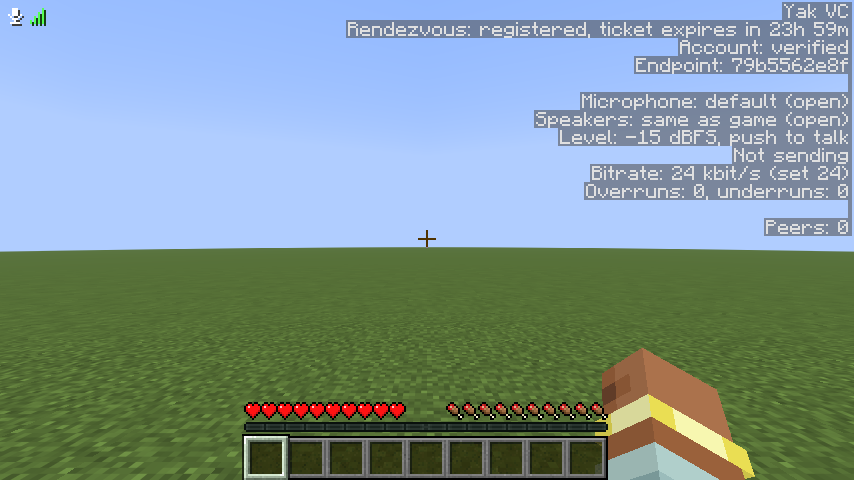
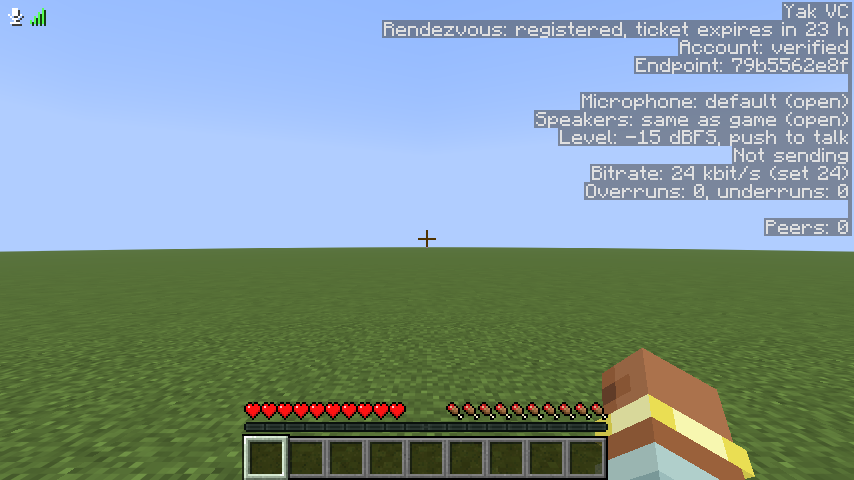
Show the ticket's time left in hours until the last hour
The debug overlay showed hours and minutes, so the line, and with it the
user guide's screenshot, changed with every minute the gametest took to
reach it. Whole hours are precise enough for a day-long ticket; under an
hour it counts minutes, when renewal matters.

Part of #118.

Changed region(s): [[0.4871, 0.0312, 1.0, 0.0938], [0.3958, 0.0312, 0.4567, 0.0938]]

diff --git a/mod/src/main/java/io/github/desocketed/yakvc/ui/DebugOverlay.java b/mod/src/main/java/io/github/desocketed/yakvc/ui/DebugOverlay.java
@@ -91,13 +91,20 @@ public final class DebugOverlay implements HudElement {
 		if (state == null) return "not started";
 		long value = feeder.rendezvousValue();
 		return switch (state) {
-			case REGISTERED -> {
-				long minutes = Math.max(0, value - System.currentTimeMillis() / 1000) / 60;
-				yield String.format("registered, ticket expires in %dh %02dm", minutes / 60, minutes % 60);
-			}
+			case REGISTERED -> "registered, ticket expires in " + timeLeft(value, System.currentTimeMillis() / 1000);
 			case RETRYING -> String.format("retrying in %.1f s", value / 1000.0);
 			default -> state.name().toLowerCase();
 		};
+	}
+
+	/**
+	 * The time until {@code expirySecs}, rounded down: whole hours while an hour or more is left, which is precise
+	 * enough for a day-long ticket and keeps the line (and the guide's screenshot) steady, then minutes, when renewal
+	 * is near.
+	 */
+	static String timeLeft(long expirySecs, long nowSecs) {
+		long secs = Math.max(0, expirySecs - nowSecs);
+		return secs >= 3600 ? secs / 3600 + " h" : secs / 60 + " min";
 	}
 
 	/** One peer: name, path, round trip, loss and jitter buffer delay. */

diff --git a/mod/src/test/java/io/github/desocketed/yakvc/ui/DebugOverlayTest.java b/mod/src/test/java/io/github/desocketed/yakvc/ui/DebugOverlayTest.java
@@ -1,0 +1,22 @@
+package io.github.desocketed.yakvc.ui;
+
+import static org.junit.jupiter.api.Assertions.assertEquals;
+
+import org.junit.jupiter.api.Test;
+
+class DebugOverlayTest {
+	private static final long ISSUED = 1_800_000_000L;
+	/** Tickets last a day. */
+	private static final long EXPIRY = ISSUED + 24 * 3600;
+
+	@Test
+	void ticketTimeLeftIsInHoursUntilTheLastHour() {
+		assertEquals("23 h", DebugOverlay.timeLeft(EXPIRY, ISSUED + 1));
+		assertEquals("23 h", DebugOverlay.timeLeft(EXPIRY, ISSUED + 59 * 60));
+		assertEquals("22 h", DebugOverlay.timeLeft(EXPIRY, ISSUED + 61 * 60));
+		assertEquals("1 h", DebugOverlay.timeLeft(EXPIRY, EXPIRY - 3600));
+		assertEquals("59 min", DebugOverlay.timeLeft(EXPIRY, EXPIRY - 3599));
+		assertEquals("1 min", DebugOverlay.timeLeft(EXPIRY, ISSUED + (23 * 60 + 59) * 60));
+		assertEquals("0 min", DebugOverlay.timeLeft(EXPIRY, EXPIRY + 10));
+	}
+}
